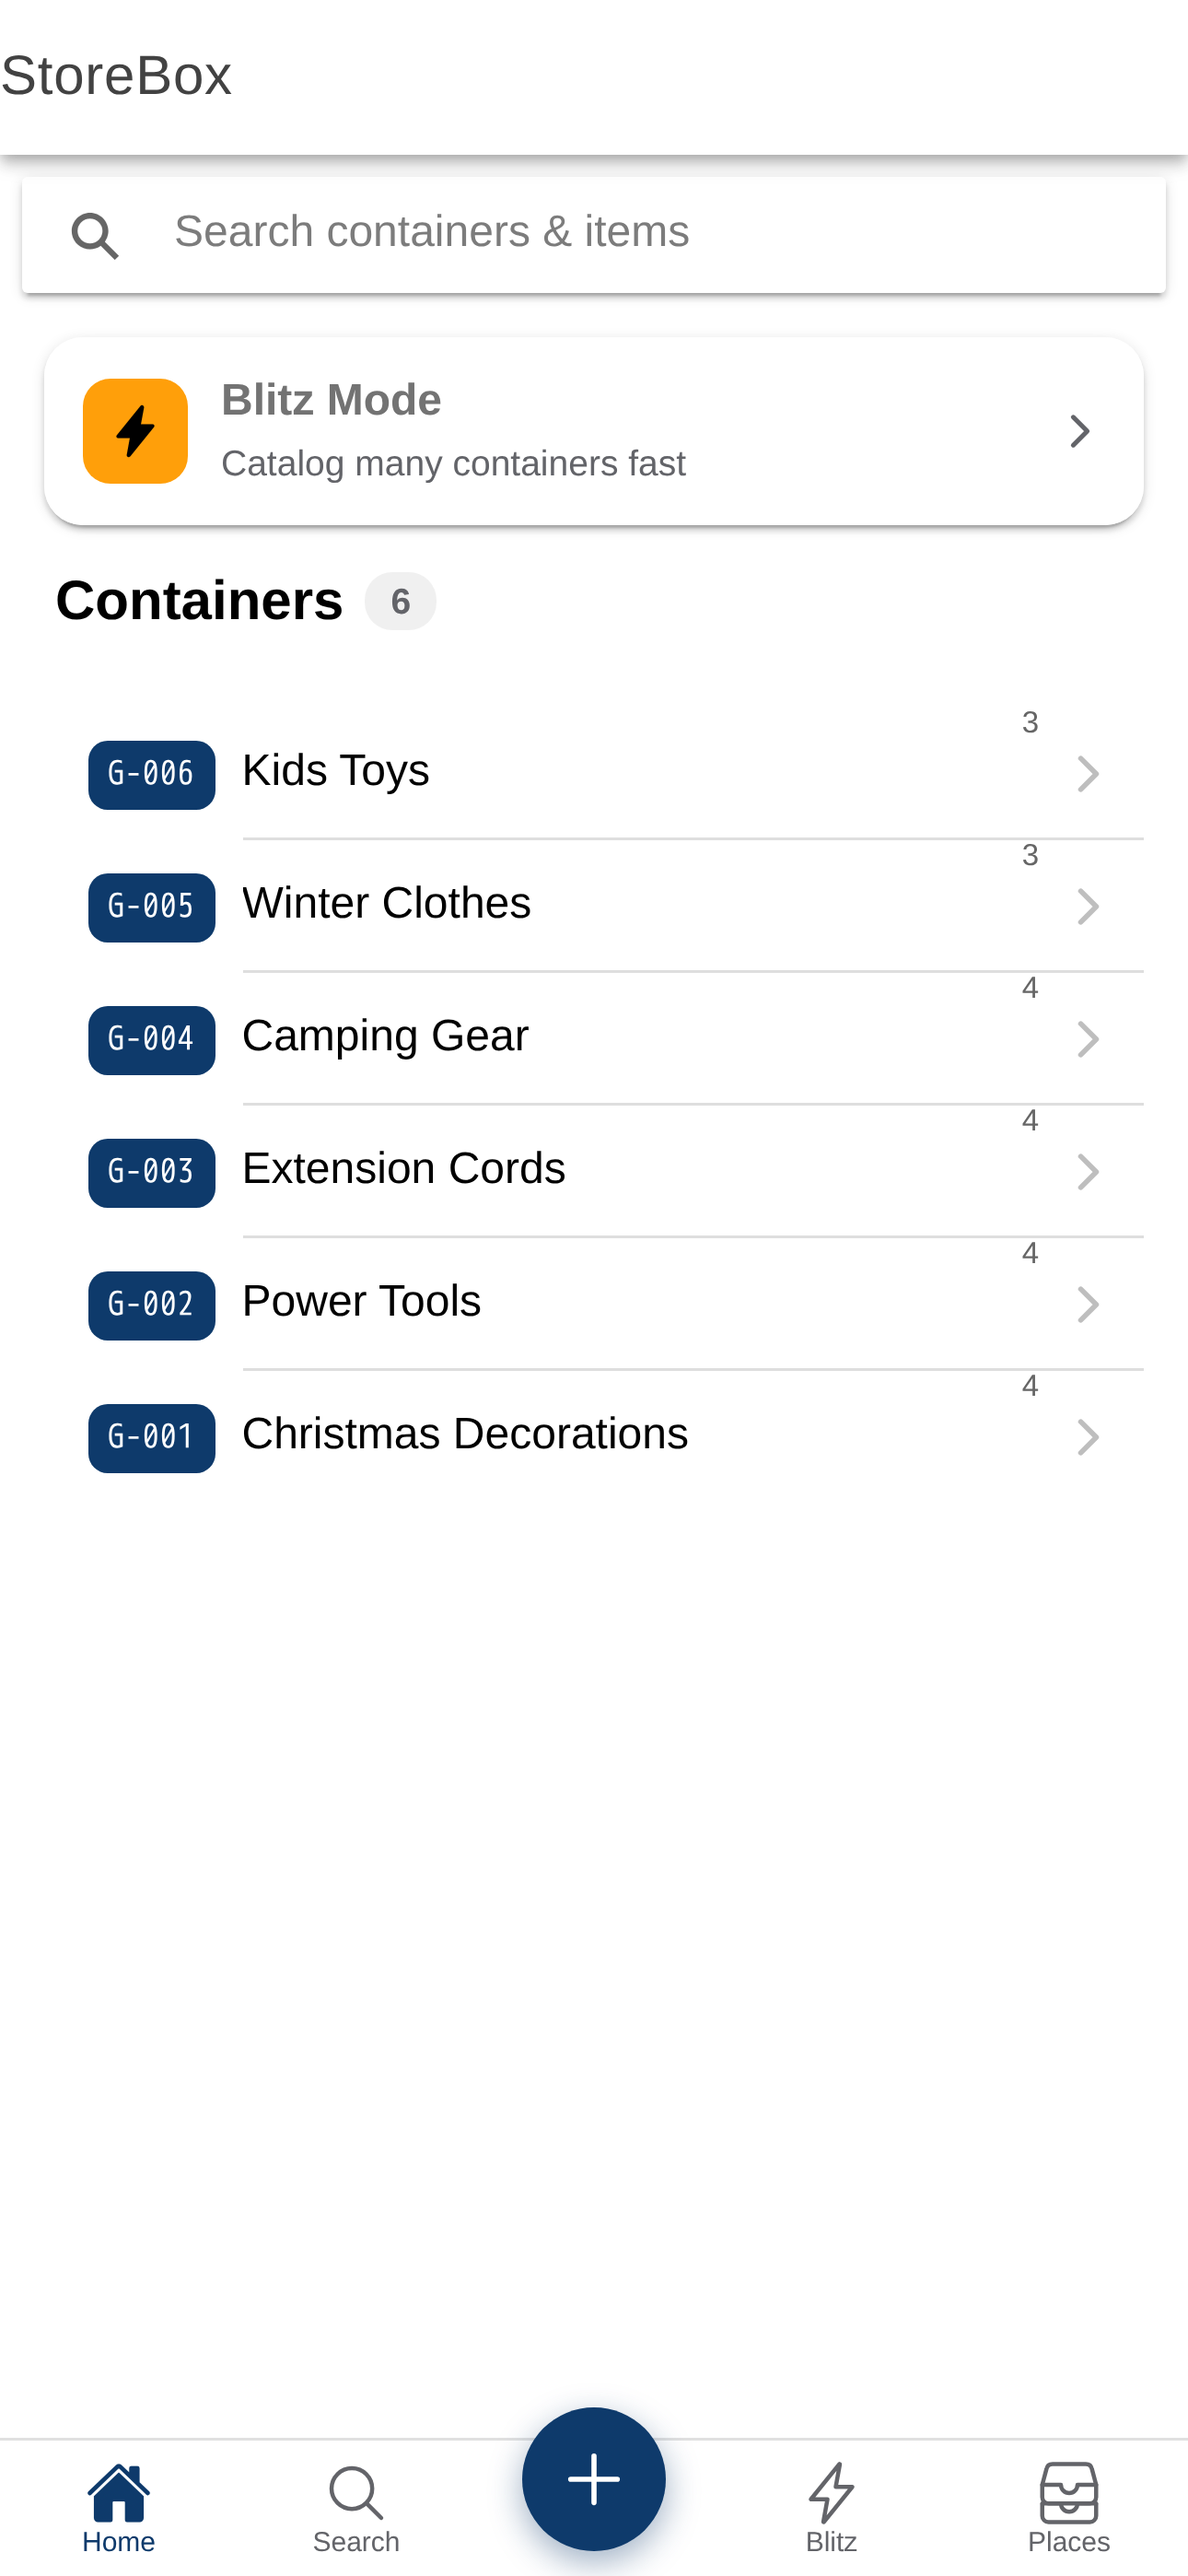
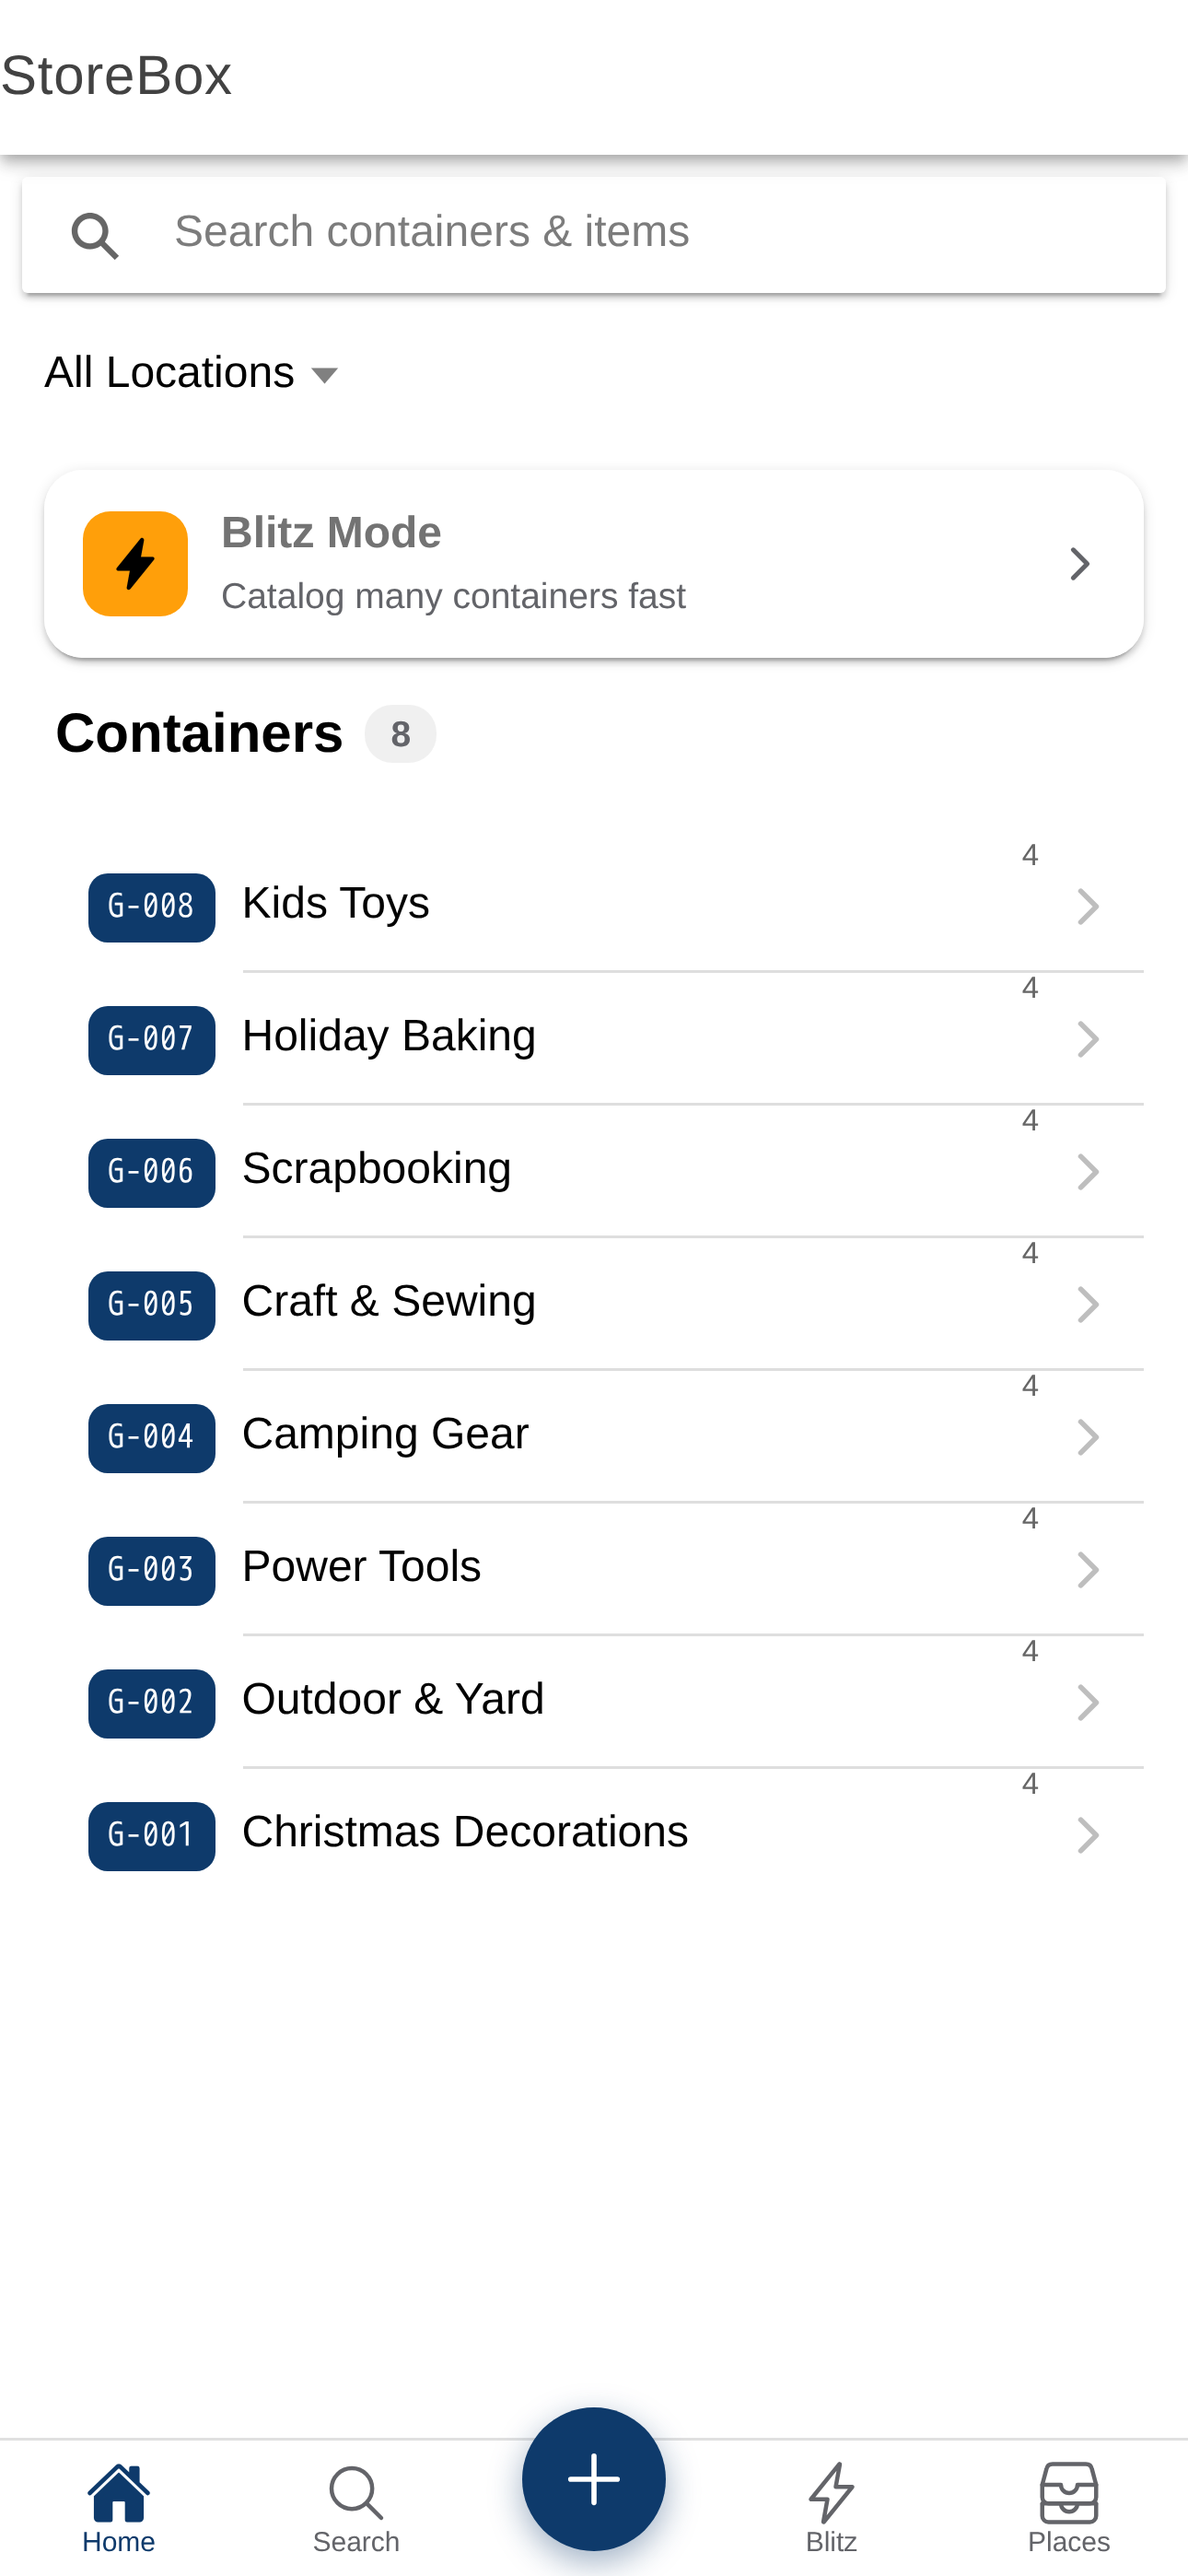
Make AI photo-detection + Blitz the centerpiece of the landing page
- New "Point your camera. Let AI do the inventory." section: snap → AI lists
  what's inside → confirm & next, with the Blitz screenshot.
- Hero + how-it-works now lead with AI ("snap a photo and AI lists what's inside").
- Refresh screenshots: search "lights" now returns 7 matches across 5 different
  containers (Christmas string + exterior, floodlights, solar path, work light,
  lantern); added craft/sewing/scrapbooking/baking bins for broader personas;
  added Blitz-in-action screen.

Claude-Session: https://claude.ai/code/session_01BwRzfbNSd5VzkQAKWgFvY6

diff --git a/index.html b/index.html
@@ -172,7 +172,7 @@
   <div class="hero-inner">
     <span class="eyebrow">For the rack builders</span>
     <h1>You built the rack.<br />Now know <span class="hl">every tote.</span></h1>
-    <p class="sub">You spent the weekend building shelving for a wall of 27-gallon totes. They look great — and completely identical. StoreBox catalogs what's inside each one, so you find anything without pulling a single bin down.</p>
+    <p class="sub">You spent the weekend building shelving for a wall of 27-gallon totes. They look great — and completely identical. Snap a photo of each bin and StoreBox's AI lists what's inside, so you find anything without pulling a single tote down.</p>
     <div class="hero-actions">
       <a href="mailto:eric@hexgarage.com?subject=StoreBox%20beta" class="btn big">Get the beta</a>
       <a href="#how" class="btn ghost big">See how it works</a>
@@ -204,13 +204,48 @@
     </div>
     <div class="step">
       <div class="num">2</div>
-      <h3>Fill it fast with Blitz</h3>
-      <p>Blitz mode walks you down the rack, logging one tote after another. Snap, list what's inside, next bin. A whole wall in one sitting.</p>
+      <h3>Let AI fill it in</h3>
+      <p>Open Blitz, snap a photo of each open tote, and AI reads what's inside. You just confirm — no typing item by item — and it jumps to the next bin.</p>
     </div>
     <div class="step">
       <div class="num">3</div>
       <h3>Find anything in seconds</h3>
       <p>Search every bin at once — "extension cords" — and StoreBox tells you the exact tote and which shelf it's on. Done.</p>
+    </div>
+  </div>
+</section>
+
+<!-- AI / BLITZ CENTERPIECE -->
+<style>
+  .ai-section { border-top: 1px solid var(--border); background: radial-gradient(120% 100% at 80% 0%, rgba(246,160,26,0.08), transparent 60%); }
+  .ai-grid { display: grid; grid-template-columns: 1.05fr 0.95fr; gap: clamp(2rem, 5vw, 4rem); align-items: center; }
+  @media (max-width: 860px) { .ai-grid { grid-template-columns: 1fr; } .ai-phone { order: -1; } }
+  .ai-copy h2 { text-align: left; }
+  .ai-copy > p { color: var(--muted); font-size: 1.1rem; margin-top: 1rem; }
+  .ai-copy > p b { color: var(--amber); }
+  .ai-steps { display: flex; flex-direction: column; gap: 1rem; margin: 1.9rem 0; }
+  .ai-step { display: flex; gap: 0.9rem; align-items: center; }
+  .ai-ic { font-size: 1.4rem; width: 2.6rem; height: 2.6rem; background: var(--amber-soft); border: 1px solid var(--border); border-radius: 11px; display: flex; align-items: center; justify-content: center; flex-shrink: 0; }
+  .ai-step b { color: var(--fg); } .ai-step .s { color: var(--muted); font-size: 0.92rem; }
+  .ai-punch { font-weight: 750; color: var(--amber); font-size: clamp(1.05rem, 2.4vw, 1.25rem); text-wrap: balance; }
+  .ai-phone { display: flex; justify-content: center; }
+  .ai-phone .phone { max-width: 250px; }
+</style>
+<section class="ai-section">
+  <div class="wrap ai-grid">
+    <div class="ai-copy">
+      <span class="eyebrow">The magic part</span>
+      <h2>Point your camera.<br />Let AI do the inventory.</h2>
+      <p>Cataloging a whole rack sounds like a lost weekend. It isn't. In <b>Blitz mode</b>, you photograph the inside of a tote and StoreBox's AI reads the picture and lists what's in it — so you're not typing item by item.</p>
+      <div class="ai-steps">
+        <div class="ai-step"><span class="ai-ic">📷</span><div><b>Snap the open tote</b><br /><span class="s">One quick photo per bin.</span></div></div>
+        <div class="ai-step"><span class="ai-ic">🤖</span><div><b>AI lists what's inside</b><br /><span class="s">Items detected for you — no typing.</span></div></div>
+        <div class="ai-step"><span class="ai-ic">✓</span><div><b>Confirm &amp; next</b><br /><span class="s">One tap, and it's on the next tote.</span></div></div>
+      </div>
+      <p class="ai-punch">A wall of 30 identical totes, cataloged in one sitting.</p>
+    </div>
+    <div class="ai-phone">
+      <img class="phone" src="assets/screens/blitz.png" alt="StoreBox Blitz mode — snap a photo and confirm AI-detected items" />
     </div>
   </div>
 </section>
@@ -232,7 +267,11 @@
     </figure></div>
     <div class="screen"><figure>
       <img class="phone" src="assets/screens/search.png" alt="Searching items and finding which container holds them" />
-      <figcaption><b>Search, don't dig.</b> Type what you're after; StoreBox names the tote that has it.</figcaption>
+      <figcaption><b>Search, don't dig.</b> One word like "lights" finds every match across every tote.</figcaption>
+    </figure></div>
+    <div class="screen"><figure>
+      <img class="phone" src="assets/screens/blitz-snap.png" alt="Blitz mode capturing a tote to catalog it" />
+      <figcaption><b>Blitz, in action.</b> Snap a tote, confirm the AI's list, next bin — down the whole rack.</figcaption>
     </figure></div>
   </div>
 </section>
